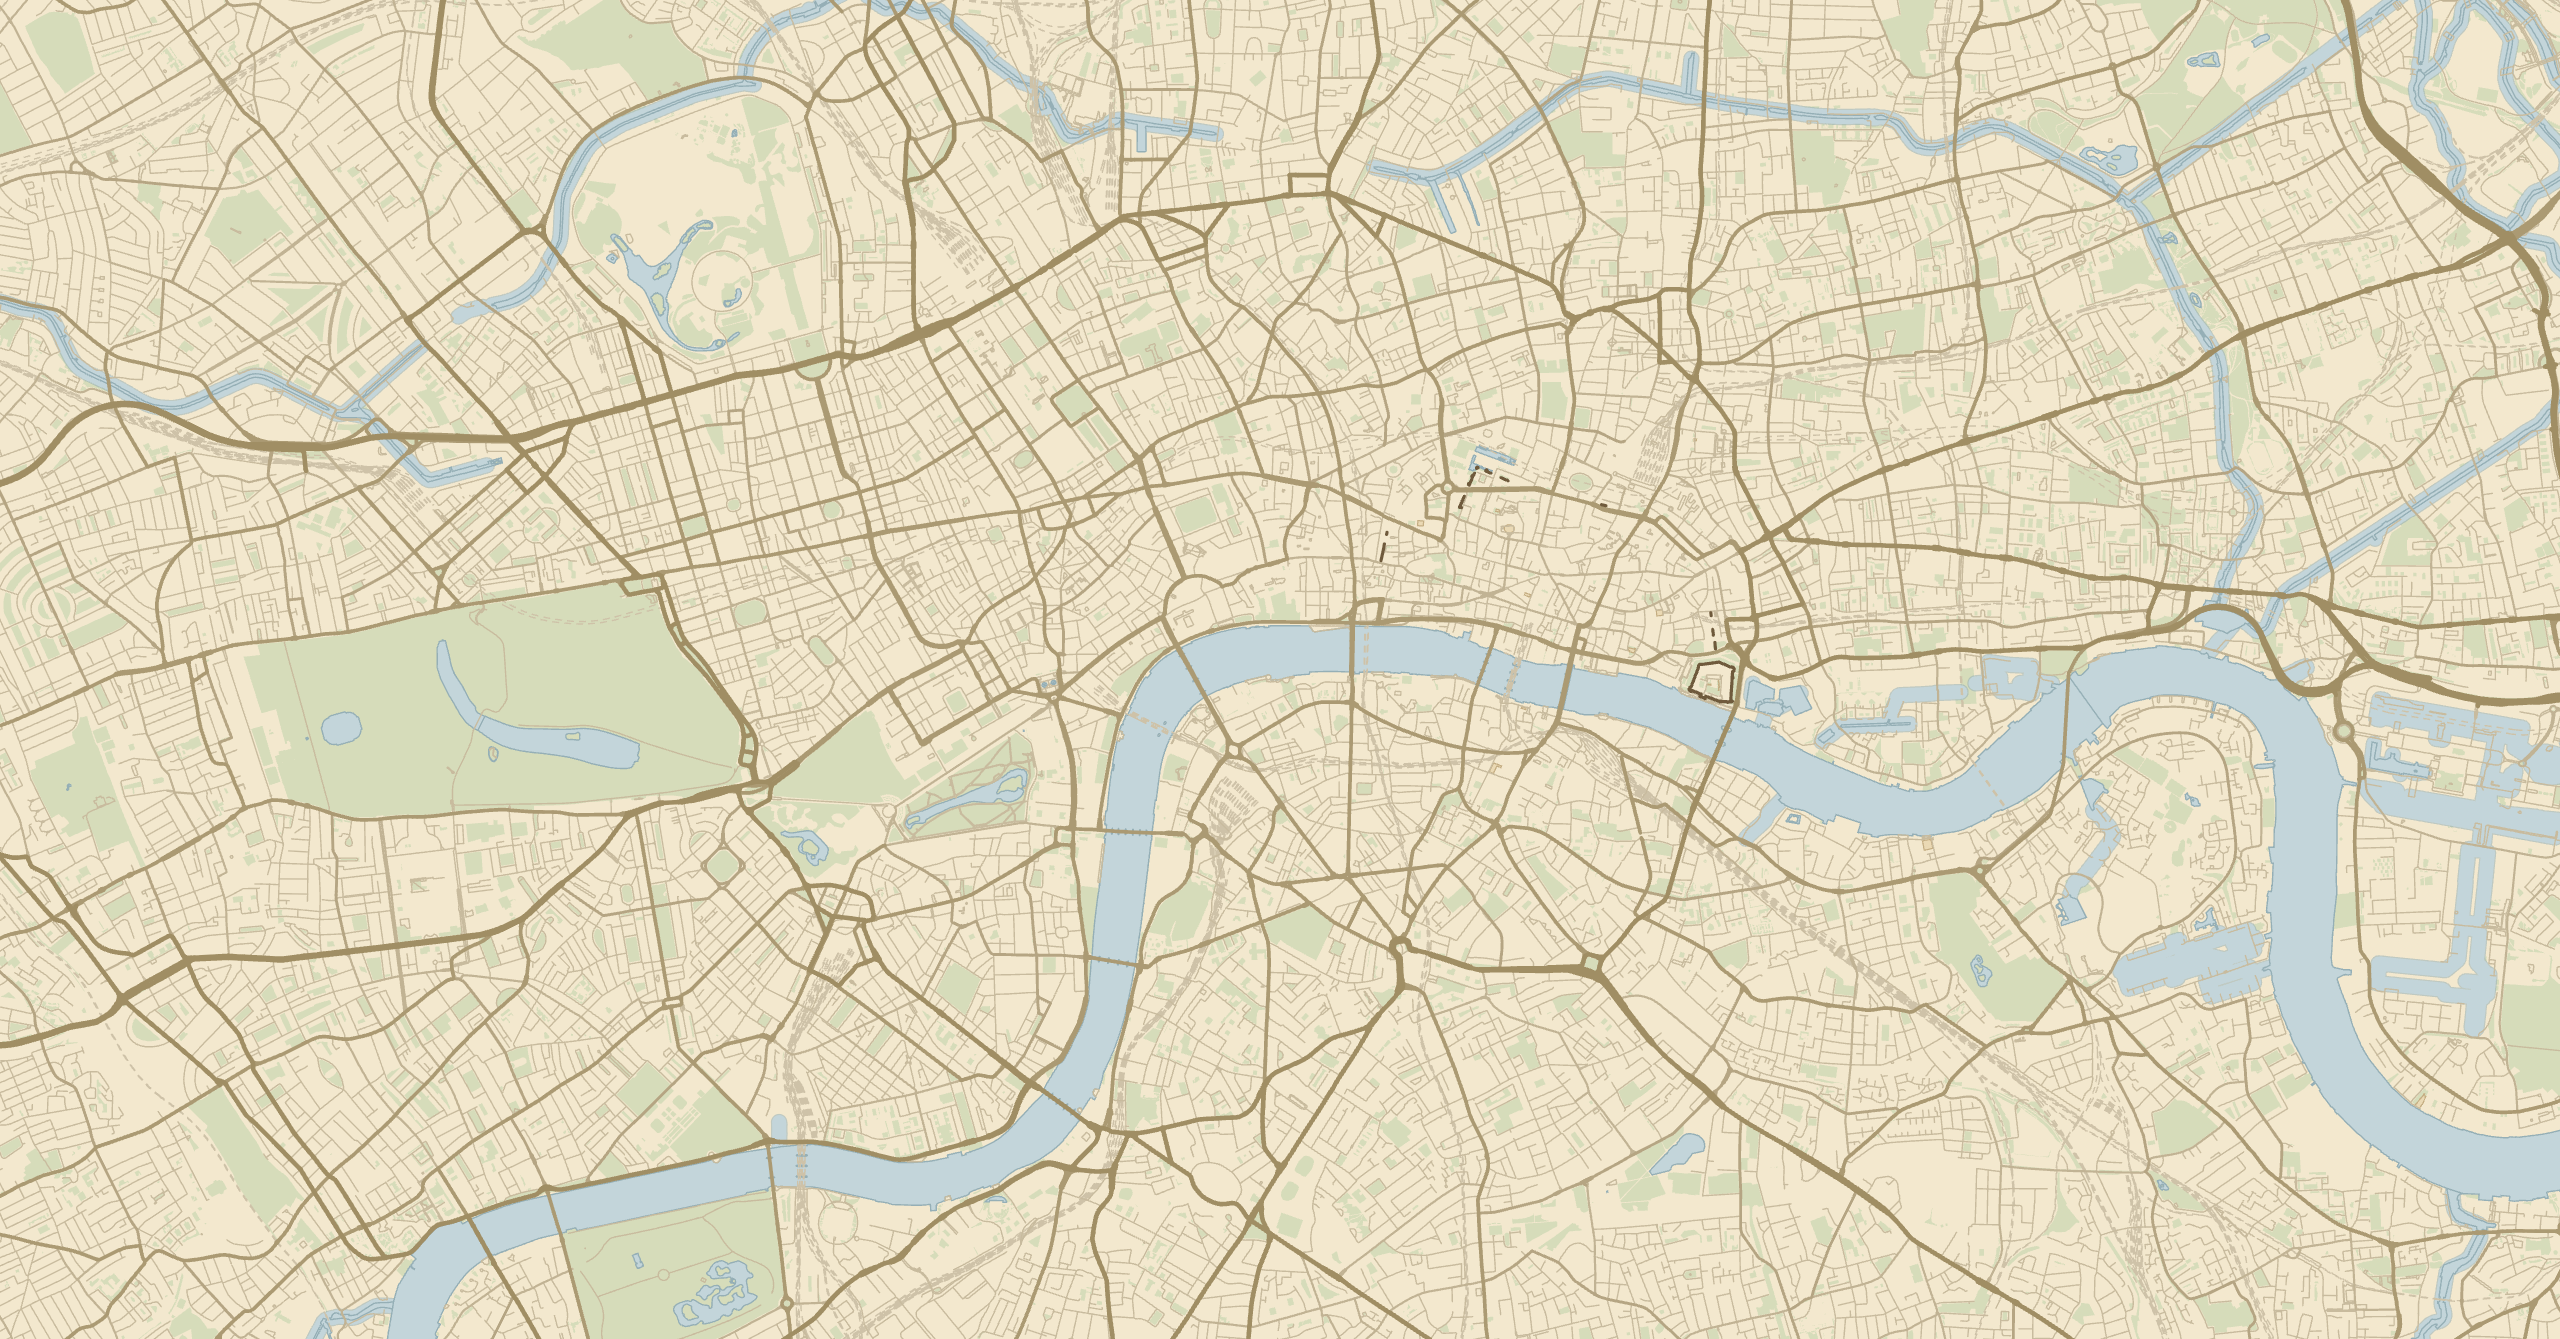
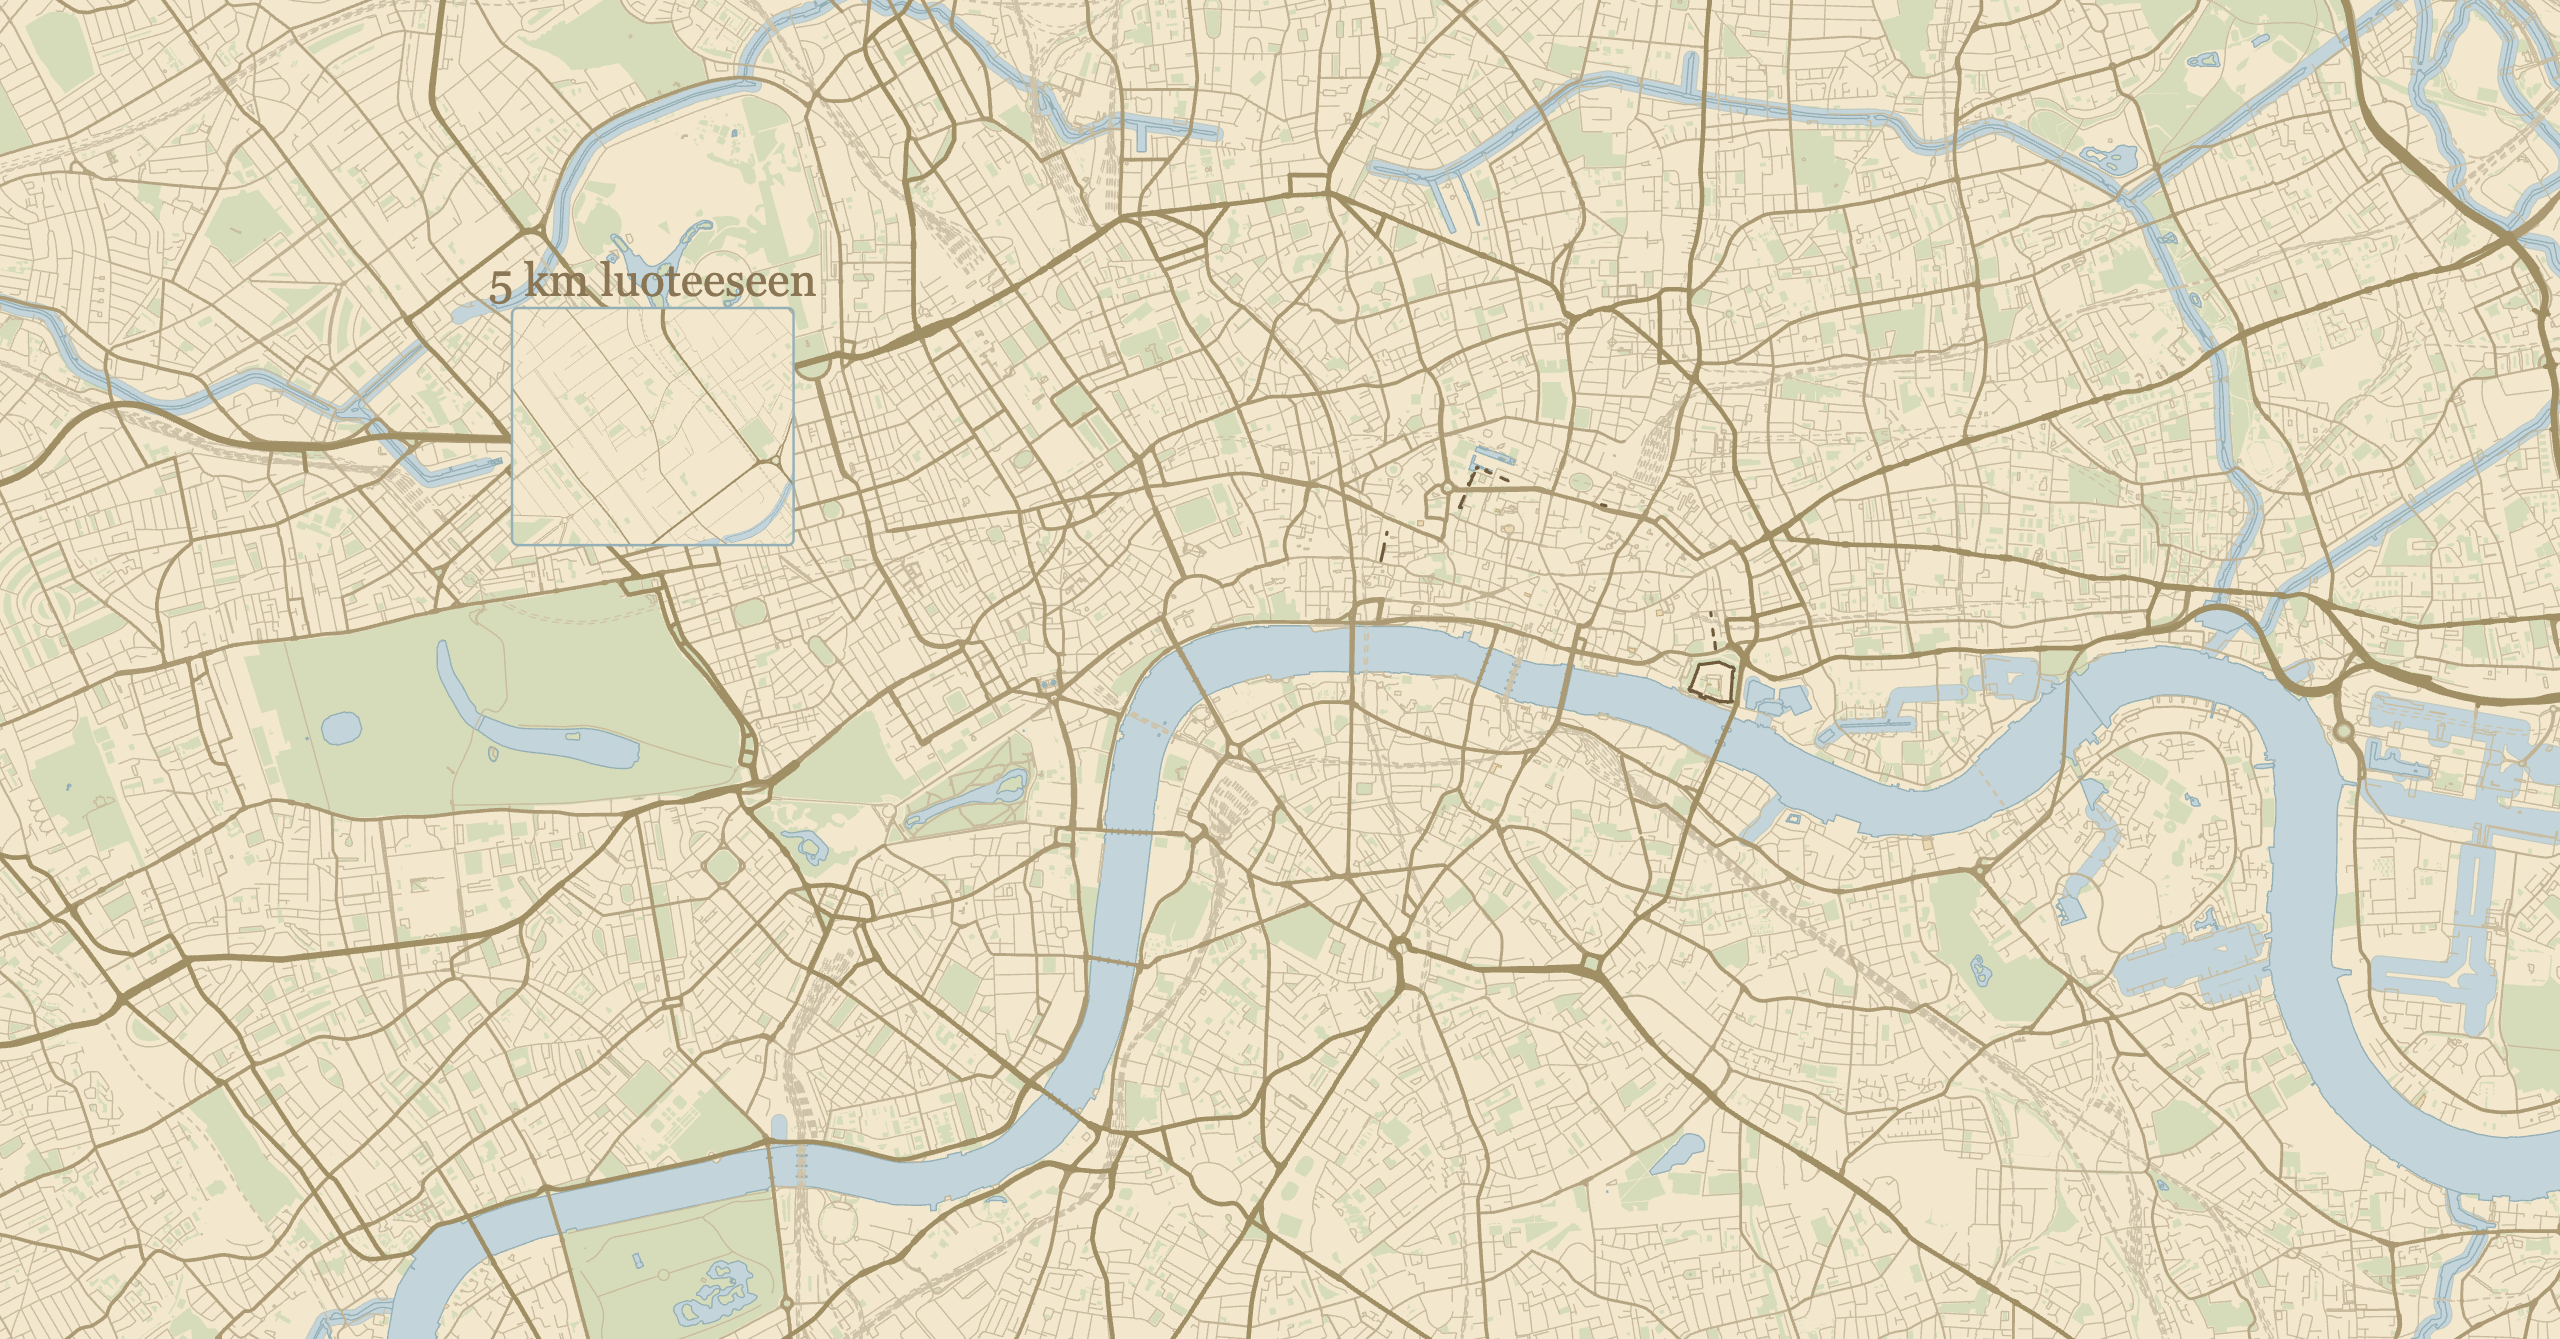
Karttaseppä: Lontoon Abbey Roadin suojatie oikealle paikalle kainaloon (KK ja PT 31.10.)
Suojatie oli datassa Mayfairissa (51.5117, -0.1403) ilman perustetta; oikea paikka St John's
Wood (51.532, -0.1773) on rajauksen luoteispuolella → kainalo vasempaan yläkulmaan kuten
Helsingin Suomenlinna (tools/piirra-kaupunkikartta.mjs lontoo, kartta ja värikartta uudelleen).
Testi: kohdekartan nostopiste saa olla kainalossa (kohdekartallaNakyvissa); nostojen
sijoitussäännöt käyttävät yhä ydinrajausta.

Changed region(s): [[0.1875, 0.1837, 0.3125, 0.4287]]

diff --git a/js/packs/maakartat.js b/js/packs/maakartat.js
@@ -5931,6 +5931,11 @@ export const KAUPUNKIKARTAT = {
      */
     rajat: { pohjoinen: 51.5291, etela: 51.4884, lansi: -0.1725, ita: -0.0475 },
     piirtoRajat: { pohjoinen: 51.54131, etela: 51.47619, lansi: -0.21, ita: -0.01 },
+    // Abbey Roadin kainalo (KK ja PT 31.10.2026, tools/piirra-kaupunkikartta.mjs lontoo): vasen yläkulma, 5 km luoteeseen.
+    kainalot: [
+      { rajat: { pohjoinen: 51.5372, etela: 51.5262, lansi: -0.1875, ita: -0.1665 },
+        x: 20, y: 23, leveys: 11, korkeus: 17.71 },
+    ],
     esittely: 'Kartan alue on Lontoon ydin Thamesin molemmin puolin. Lännessä Westminsterin '
       + 'kohteita ovat Buckinghamin palatsi, Trafalgar Square, Big Ben ja joen vastarannalla '
       + 'Lontoon silmä; idässä kartta päättyy Tower Bridgeen.\n\n'
@@ -6093,7 +6098,8 @@ export const KAUPUNKIKARTAT = {
         nosto: 'nosto-the-george-pubi',
       },
       {
-        nimi: 'Abbey Roadin suojatie', tyyppi: 'aukio', lat: 51.5117, lon: -0.1403,
+        // Oikea paikka St John's Wood (KK 31.10.2026; ennen Mayfairissa 51.5117, -0.1403 ilman perustetta) → kainalossa.
+        nimi: 'Abbey Roadin suojatie', tyyppi: 'aukio', lat: 51.532, lon: -0.1773,
         nosto: 'nosto-abbey-roadin-suojatie',
         nimiPuoli: 'oikea', siirto: { x: 26, y: 0 },
       },
